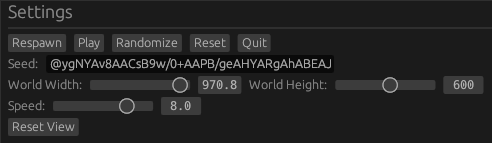
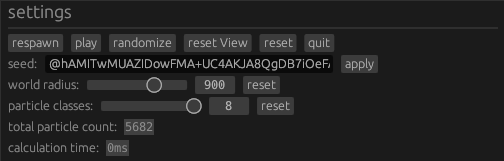
Update readme, images and gifs and add new seeds

Changed region(s): [[0.0, 0.1958, 1.0, 0.979], [0.0, 0.028, 0.1524, 0.1678]]

diff --git a/README.md b/README.md
@@ -1,50 +1,45 @@
-# Smarticles (fork)
+# Smarticles
 
 A Rust port of [Brainxyz's Artificial Life](https://www.youtube.com/watch?v=0Kx4Y9TVMGg)
 simulator with some fun features.
 
-> _A simple program to simulate primitive Artificial Life using simple rules of
-> attraction or repulsion among atom-like particles, producing complex
-> self-organzing life-like patterns._
+> _A simple program to simulate primitive Artificial Life using simple rules of attraction or repulsion among atom-like particles, producing complex self-organzing life-like patterns._
 >
 > – from the [original repository](https://github.com/hunar4321/life_code)
 
-> note that the current previews in this readme need to be updated.
-
 ![animation of the app simulating particles](./img/app_anim.gif)
 
-## What has changed/will change compared to the original in this fork
+## Roadmap
 
 - [x] add more particle types
 - [x] make it possible to move around and zoom
+- [x] change particle interaction function
+- [x] add particle inspector that allows following a selected particle
+- [x] add multithreading: the simulation and display threads run in parallel
 
 ## Running the App
 
-To run this, you will need Rust installed, which you can do by following the
-installation instructions on the [Rust website](https://www.rust-lang.org/).
-You should then have `cargo` installed, which is the command line program
-for managing and running Rust projects.
+To run this, you will need Rust installed, which you can do by following the installation instructions on the [Rust website](https://www.rust-lang.org/). You should then have `cargo` installed, which is the command line program for managing and running Rust projects.
 
 You can check your version of `cargo` in the command line:
 
 ```commandline
 cargo --version
-cargo 1.75.0 (1d8b05cdd 2023-11-20)
+cargo 1.77.0 (3fe68eabf 2024-02-29)
 ```
 
-Once done, download or clone this repository to your preferred location and
-run the program using `cargo` like so:
+Once done, download or clone this repository to your preferred location and run the program using `cargo` like so:
 
 ```commandline
-cd ~/path/to/smarticles-fork
-cargo run
+cd ~/path/to/smarticles
+cargo run -r
 ```
 
 ## How to Use It
 
-First, watch it in action. Press the `Randomize` button, which will spawn a
-bunch of particles with randomized settings. Then, press `Play` to run the
-simulation.
+First, watch it in action. Press the `randomize` button, which will spawn a bunch of particles with randomized settings. Then, press `play` to run the simulation.
+
+Here are the app's basic controls
 
 ![screenshot of the app's basic controls](./img/random_play.png)
 
@@ -56,30 +51,25 @@ There are 8 particle types. You can change the behavior of each with respect to 
 
 ![screenshot of particle's parameters](./img/params.png)
 
-`Power` is the particle's attraction to particles of the other type. A positive
-number means it is attracted to them, and negative means it is repulsed away.
-`Radius` is how far away the particle can sense particles of that type.
+- `power` is the particle's attraction to particles of the other type. A positive number means it is attracted to them, and negative means it is repulsed away.
+- `radius` is how far away the particle can sense particles of that type.
 
-You can adjust these parameters while the simulation is running if you want to
-see the effect they have:
+You can adjust these parameters while the simulation is running if you want to see the effect they have:
+
+![animation of live parameter editing](./img/live_param.gif)
 
 ## Sharing Simulations
 
-The `Seed` field is the _D.N.A_ of your particle system. It contains all the
-information needed to replicate the current simulation. Pressing `Randomize`
-will give you random seeds, but you can also enter a custom one.
+The `seed` field is the _"D.N.A"_ of your particle system. It contains all the information needed to replicate the current simulation. Pressing `randomize` will give you random seeds, but you can also enter a custom one.
 
 What does _your_ name look like?
 
-![simulation using "chevy" as the seed](./img/custom_seed.gif)
+![simulation using "chevy_and_valflrt" as the seed](./img/custom_seed.gif)
 
-> ☝ literally the inside of my brain ☝
+> ☝ literally the inside of Chevy and valflrt brains ☝
 
-If you start adjusting parameters, you'll notice the seed changes to a code
-that begins with the `@` symbol. These are custom-encoded simulations, which
-you can share by copying the entire code.
+If you start adjusting parameters, you'll notice the seed changes to a code that begins with the `@` symbol. These are custom-encoded simulations, which you can share by copying the entire code.
 
-The code will be partially cut-off by the textbox, so make sure you select it all
-before copying.
+The code will be partially cut-off by the textbox, so make sure you select it all before copying.
 
 ![screenshot of particle's parameters](./img/custom_code.png)

diff --git a/seeds.md b/seeds.md
@@ -79,3 +79,5 @@
   - `unterse_trench_assures`
   - `ethrog_tactus_stolons`
   - `atavism_priests_physique`: this one is truly beautiful: many classes spinning together (actually 7 of 8 classes).
+  - `emer_broil_choicest`
+  - `hyaloid_claviole_hoop`
